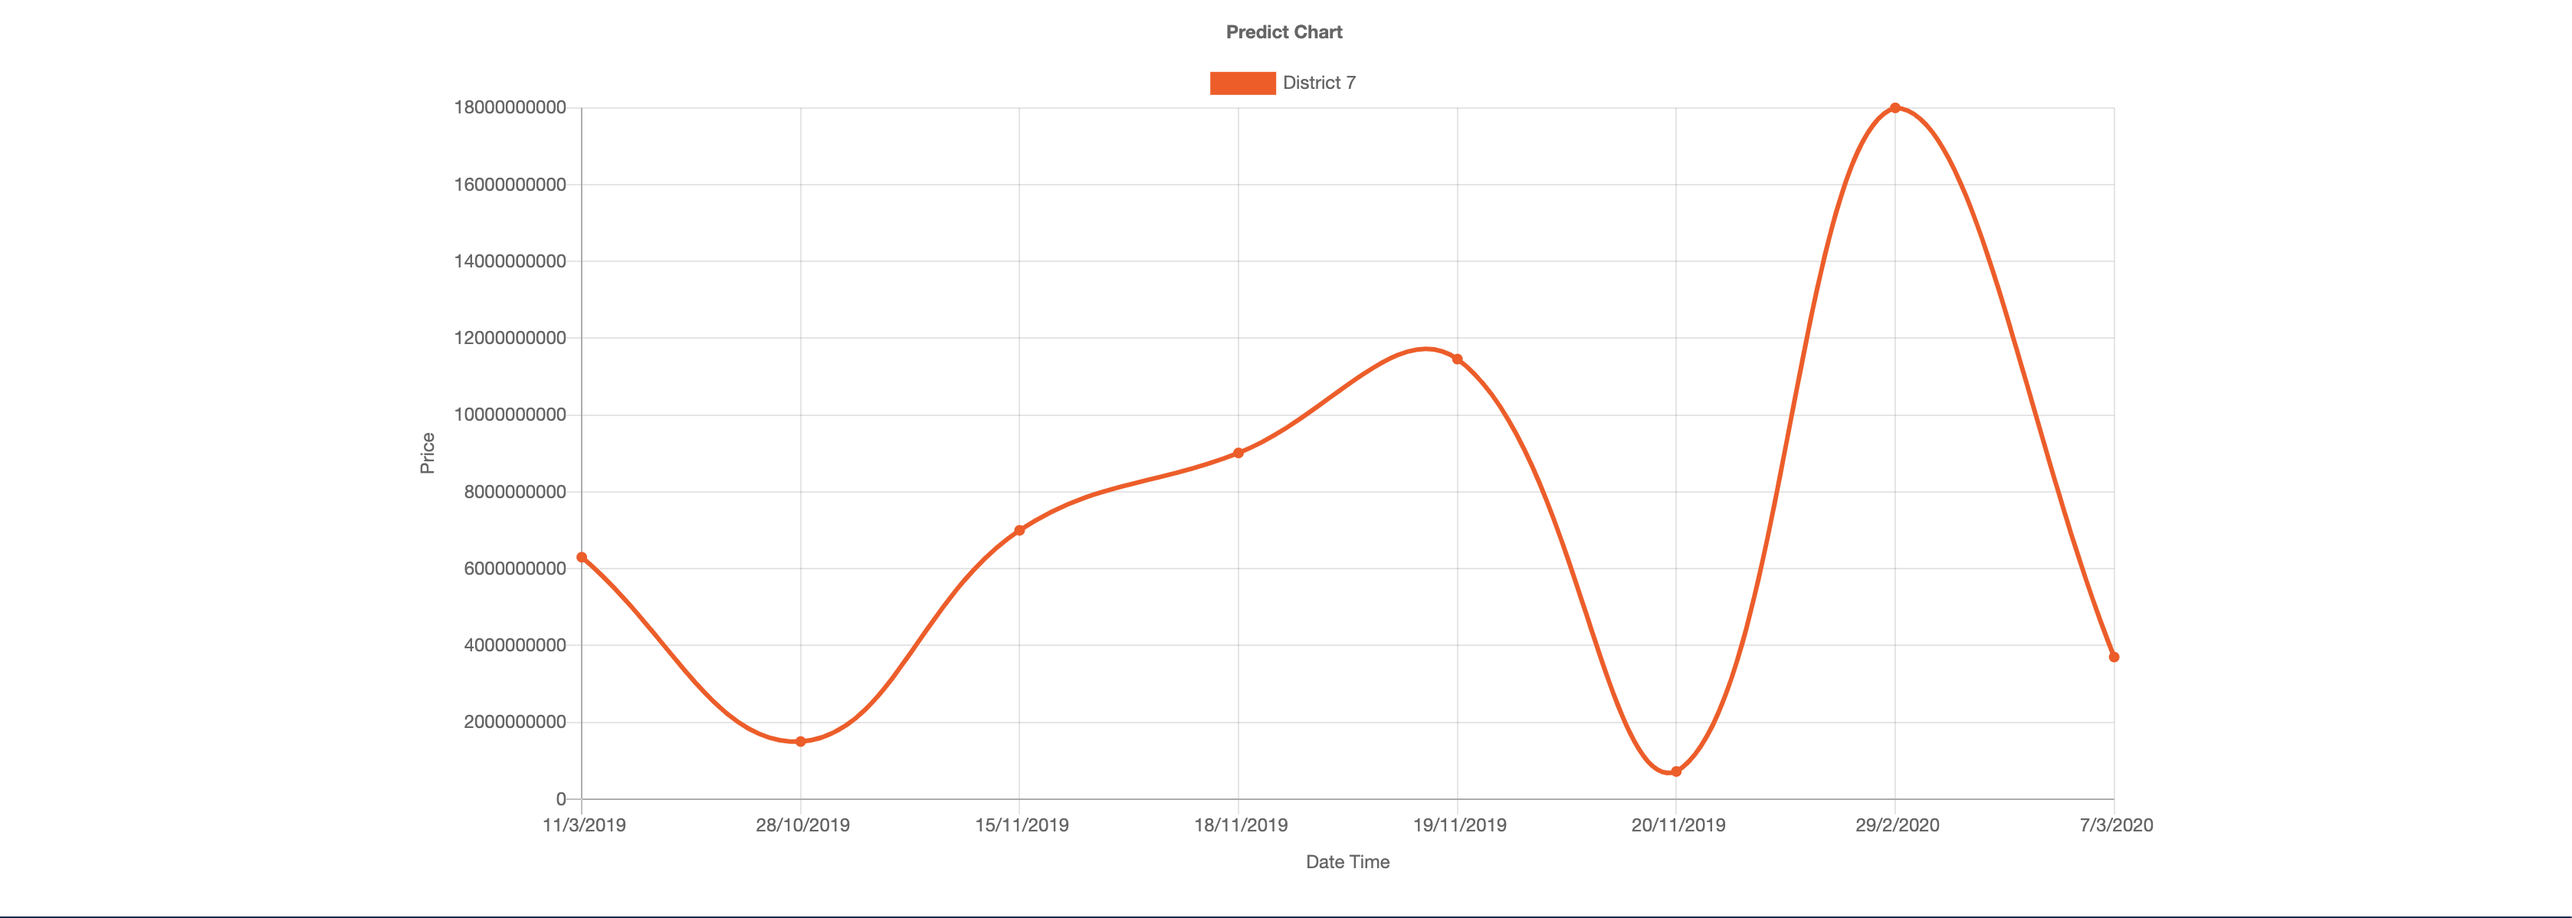
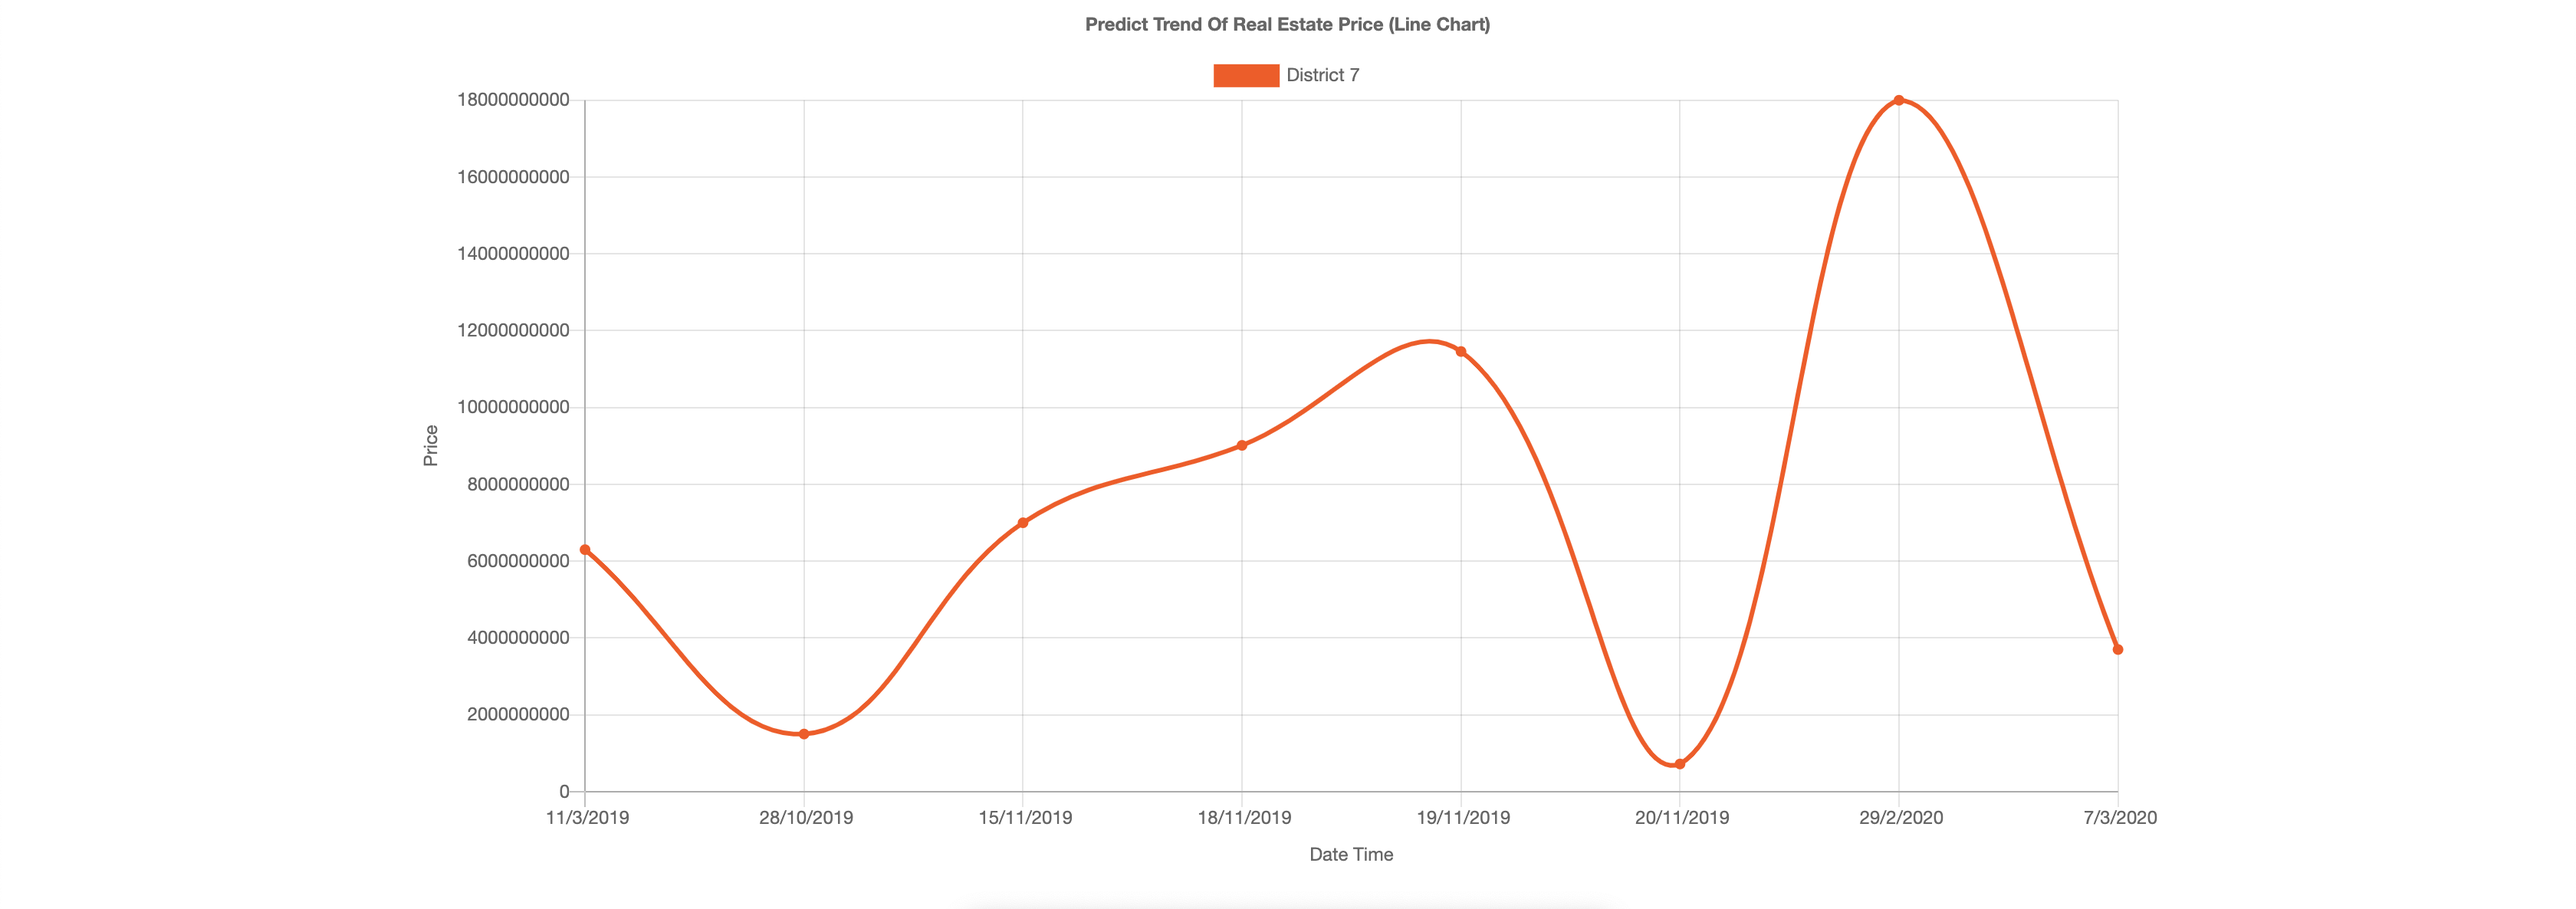
Data Mining Final Done

diff --git a/templates/predicts/predict_result.html b/templates/predicts/predict_result.html
@@ -180,7 +180,7 @@
             responsive: true,
             title: {
               display: true,
-              text: 'Predict Chart'
+              text: 'Predict Trend Of Real Estate Price (Line Chart)'
             },
             tooltips: {
               mode: 'index',
